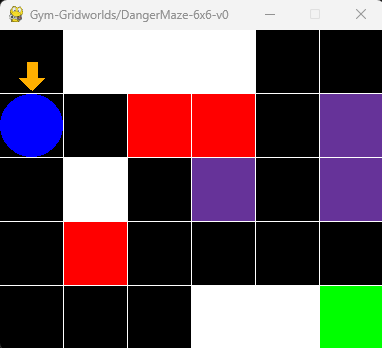
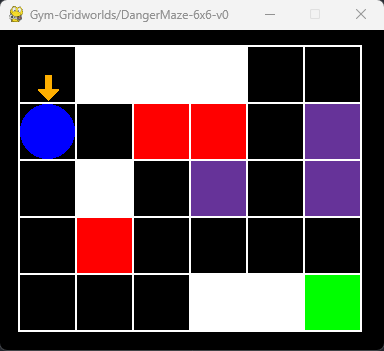
nicer rendering

diff --git a/gym_gridworlds/gridworld.py b/gym_gridworlds/gridworld.py
@@ -314,9 +314,13 @@ class Gridworld(gym.Env):
             min(64 * self.n_cols, 512),
             min(64 * self.n_rows, 512)
         )  # fmt: skip
+        self.padding = (
+            max(self.window_size[0] // 20, 1),
+            max(self.window_size[1] // 20, 1),
+        )  # fmt: skip
         self.tile_size = (
-            self.window_size[0] // self.n_cols,
-            self.window_size[1] // self.n_rows,
+            (self.window_size[0] - self.padding[0] * 2) // self.n_cols,
+            (self.window_size[1] - self.padding[1] * 2) // self.n_rows,
         )  # fmt: skip
 
     def set_state(self, state):
@@ -478,17 +482,32 @@ class Gridworld(gym.Env):
                     (end_pos[0], end_pos[1] - size[1]),
                 )
 
-        t_size = self.tile_size  # short notation
+        t_size = self.tile_size  # abbrev
+        border_pixels = 1
+
+        # draw background (shift according to padding)
+        background_init = (
+            self.padding[0] - border_pixels,
+            self.padding[1] - border_pixels,
+        )
+        background_end = (
+            t_size[0] * self.n_cols + border_pixels * 2,
+            t_size[1] * self.n_rows + border_pixels * 2,
+        )
+        background = pygame.Rect(background_init, background_end)
+        pygame.draw.rect(self.window_surface, WHITE, background)
 
         # draw tiles
         for y in range(self.n_rows):
             for x in range(self.n_cols):
-                pos = (x * t_size[0], y * t_size[1])
-                border = pygame.Rect(pos, tuple(cs * 1.01 for cs in t_size))
-                rect = pygame.Rect(pos, tuple(cs * 0.99 for cs in t_size))
-
-                # draw background
-                pygame.draw.rect(self.window_surface, WHITE, border)
+                pos = (
+                    x * t_size[0] + self.padding[0],
+                    y * t_size[1] + self.padding[1],
+                )  # shift according to padding
+                rect = pygame.Rect(
+                    tuple(p + border_pixels for p in pos),
+                    tuple(ts - border_pixels * 2 for ts in t_size),
+                )  # shift according to white edge
 
                 # mask unobservable tiles with white noise
                 if not (
@@ -536,28 +555,54 @@ class Gridworld(gym.Env):
                 # draw arrow for one-directional tiles
                 if self.grid[y][x] in [LEFT, RIGHT, UP, DOWN]:
                     if self.grid[y][x] == LEFT:
-                        start_pos = (pos[0] + t_size[0], pos[1] + t_size[1] / 2)
-                        end_pos = (pos[0] + t_size[0] / 2, pos[1] + t_size[1] / 2)
-                        arrow_width = -(-t_size[1] // 3)
+                        start_pos = (
+                            pos[0] + t_size[0] - border_pixels - 1,
+                            pos[1] + t_size[1] / 2,
+                        )
+                        end_pos = (
+                            pos[0] + t_size[0] / 2,
+                            pos[1] + t_size[1] / 2,
+                        )
+                        arrow_width = t_size[1] // 3
                     elif self.grid[y][x] == DOWN:
-                        start_pos = (pos[0] + t_size[0] / 2, pos[1])
-                        end_pos = (pos[0] + t_size[0] / 2, pos[1] + t_size[1] / 2)
-                        arrow_width = -(-t_size[0] // 3)
+                        start_pos = (
+                            pos[0] + t_size[0] / 2,
+                            pos[1] + border_pixels,
+                        )
+                        end_pos = (
+                            pos[0] + t_size[0] / 2,
+                            pos[1] + t_size[1] / 2,
+                        )
+                        arrow_width = t_size[0] // 3
                     elif self.grid[y][x] == RIGHT:
-                        start_pos = (pos[0], pos[1] + t_size[1] / 2)
-                        end_pos = (pos[0] + t_size[0] / 2, pos[1] + t_size[1] / 2)
-                        arrow_width = -(-t_size[1] // 3)
+                        start_pos = (
+                            pos[0] + border_pixels,
+                            pos[1] + t_size[1] / 2
+                        )
+                        end_pos = (
+                            pos[0] + t_size[0] / 2,
+                            pos[1] + t_size[1] / 2,
+                        )
+                        arrow_width = t_size[1] // 3
                     elif self.grid[y][x] == UP:
-                        start_pos = (pos[0] + t_size[0] / 2, pos[1] + t_size[1])
-                        end_pos = (pos[0] + t_size[0] / 2, pos[1] + t_size[1] / 2)
-                        arrow_width = -(-t_size[0] // 3)
+                        start_pos = (
+                            pos[0] + t_size[0] / 2,
+                            pos[1] + t_size[1] - border_pixels - 1,
+                        )
+                        end_pos = (
+                            pos[0] + t_size[0] / 2,
+                            pos[1] + t_size[1] / 2,
+                        )
+                        arrow_width = t_size[0] // 3
                     else:
                         pass
                     pygame.draw.polygon(
                         self.window_surface, GRAY, (start_pos, end_pos), arrow_width
                     )
                     arr_pos = arrow_head(
-                        end_pos, [cs / 2 for cs in t_size], self.grid[y][x]
+                        end_pos,
+                        [cs / 2 - border_pixels - 1 for cs in t_size],
+                        self.grid[y][x],
                     )
                     pygame.draw.polygon(self.window_surface, GRAY, arr_pos, 0)
 
@@ -584,31 +629,42 @@ class Gridworld(gym.Env):
                 y = self.last_pos[0]
 
                 if self.last_action == STAY:  # draw circle
-                    pos = (x * t_size[0] + t_size[0] / 4, y * t_size[1] + t_size[1] / 4)
+                    pos = (
+                        x * t_size[0] + t_size[0] / 4 + self.padding[0] + border_pixels,
+                        y * t_size[1] + t_size[1] / 4 + self.padding[1] + border_pixels,
+                    )
                     rect = pygame.Rect(pos, tuple(cs * 0.5 for cs in t_size))
                     pygame.draw.ellipse(self.window_surface, ORANGE, rect)
                 else:  # draw arrow
-                    pos = (x * t_size[0] + t_size[0] / 2, y * t_size[1] + t_size[1] / 2)
+                    pos = (
+                        x * t_size[0] + t_size[0] / 2 + self.padding[0] + border_pixels,
+                        y * t_size[1] + t_size[1] / 2 + self.padding[1] + border_pixels,
+                    )
                     if self.last_action == LEFT:
                         end_pos = (pos[0] - t_size[0] / 4, pos[1])
-                        arrow_width = -(-t_size[1] // 6)
+                        arrow_width = t_size[1] // 6
                     elif self.last_action == DOWN:
                         end_pos = (pos[0], pos[1] + t_size[1] / 4)
-                        arrow_width = -(-t_size[0] // 6)
+                        arrow_width = t_size[0] // 6
                     elif self.last_action == RIGHT:
                         end_pos = (pos[0] + t_size[0] / 4, pos[1])
-                        arrow_width = -(-t_size[1] // 6)
+                        arrow_width = t_size[1] // 6
                     elif self.last_action == UP:
                         end_pos = (pos[0], pos[1] - t_size[1] / 4)
-                        arrow_width = -(-t_size[0] // 6)
+                        arrow_width = t_size[0] // 6
                     else:
                         raise ValueError("illegal action")
 
                     pygame.draw.polygon(
-                        self.window_surface, ORANGE, (pos, end_pos), arrow_width
+                        self.window_surface,
+                        ORANGE,
+                        (pos, end_pos),
+                        arrow_width - border_pixels * 2,
                     )
                     arr_pos = arrow_head(
-                        end_pos, [cs / 5 for cs in t_size], self.last_action
+                        end_pos,
+                        [cs / 5 - border_pixels for cs in t_size],
+                        self.last_action,
                     )
                     pygame.draw.polygon(self.window_surface, ORANGE, arr_pos, 0)
 

diff --git a/README.md b/README.md
@@ -133,7 +133,7 @@ GRIDS["5x5_wall"] = [
 2. Register the environment in `gym_gridworlds/__init__.py`, for example
 ```python
 register(
-    id="Wall-5x5-v0",
+    id="Gym-Gridworlds/Wall-5x5-v0",
     entry_point="gym_gridworlds.gridworld:GridworldRandomStart",
     max_episode_steps=50,
     kwargs={
